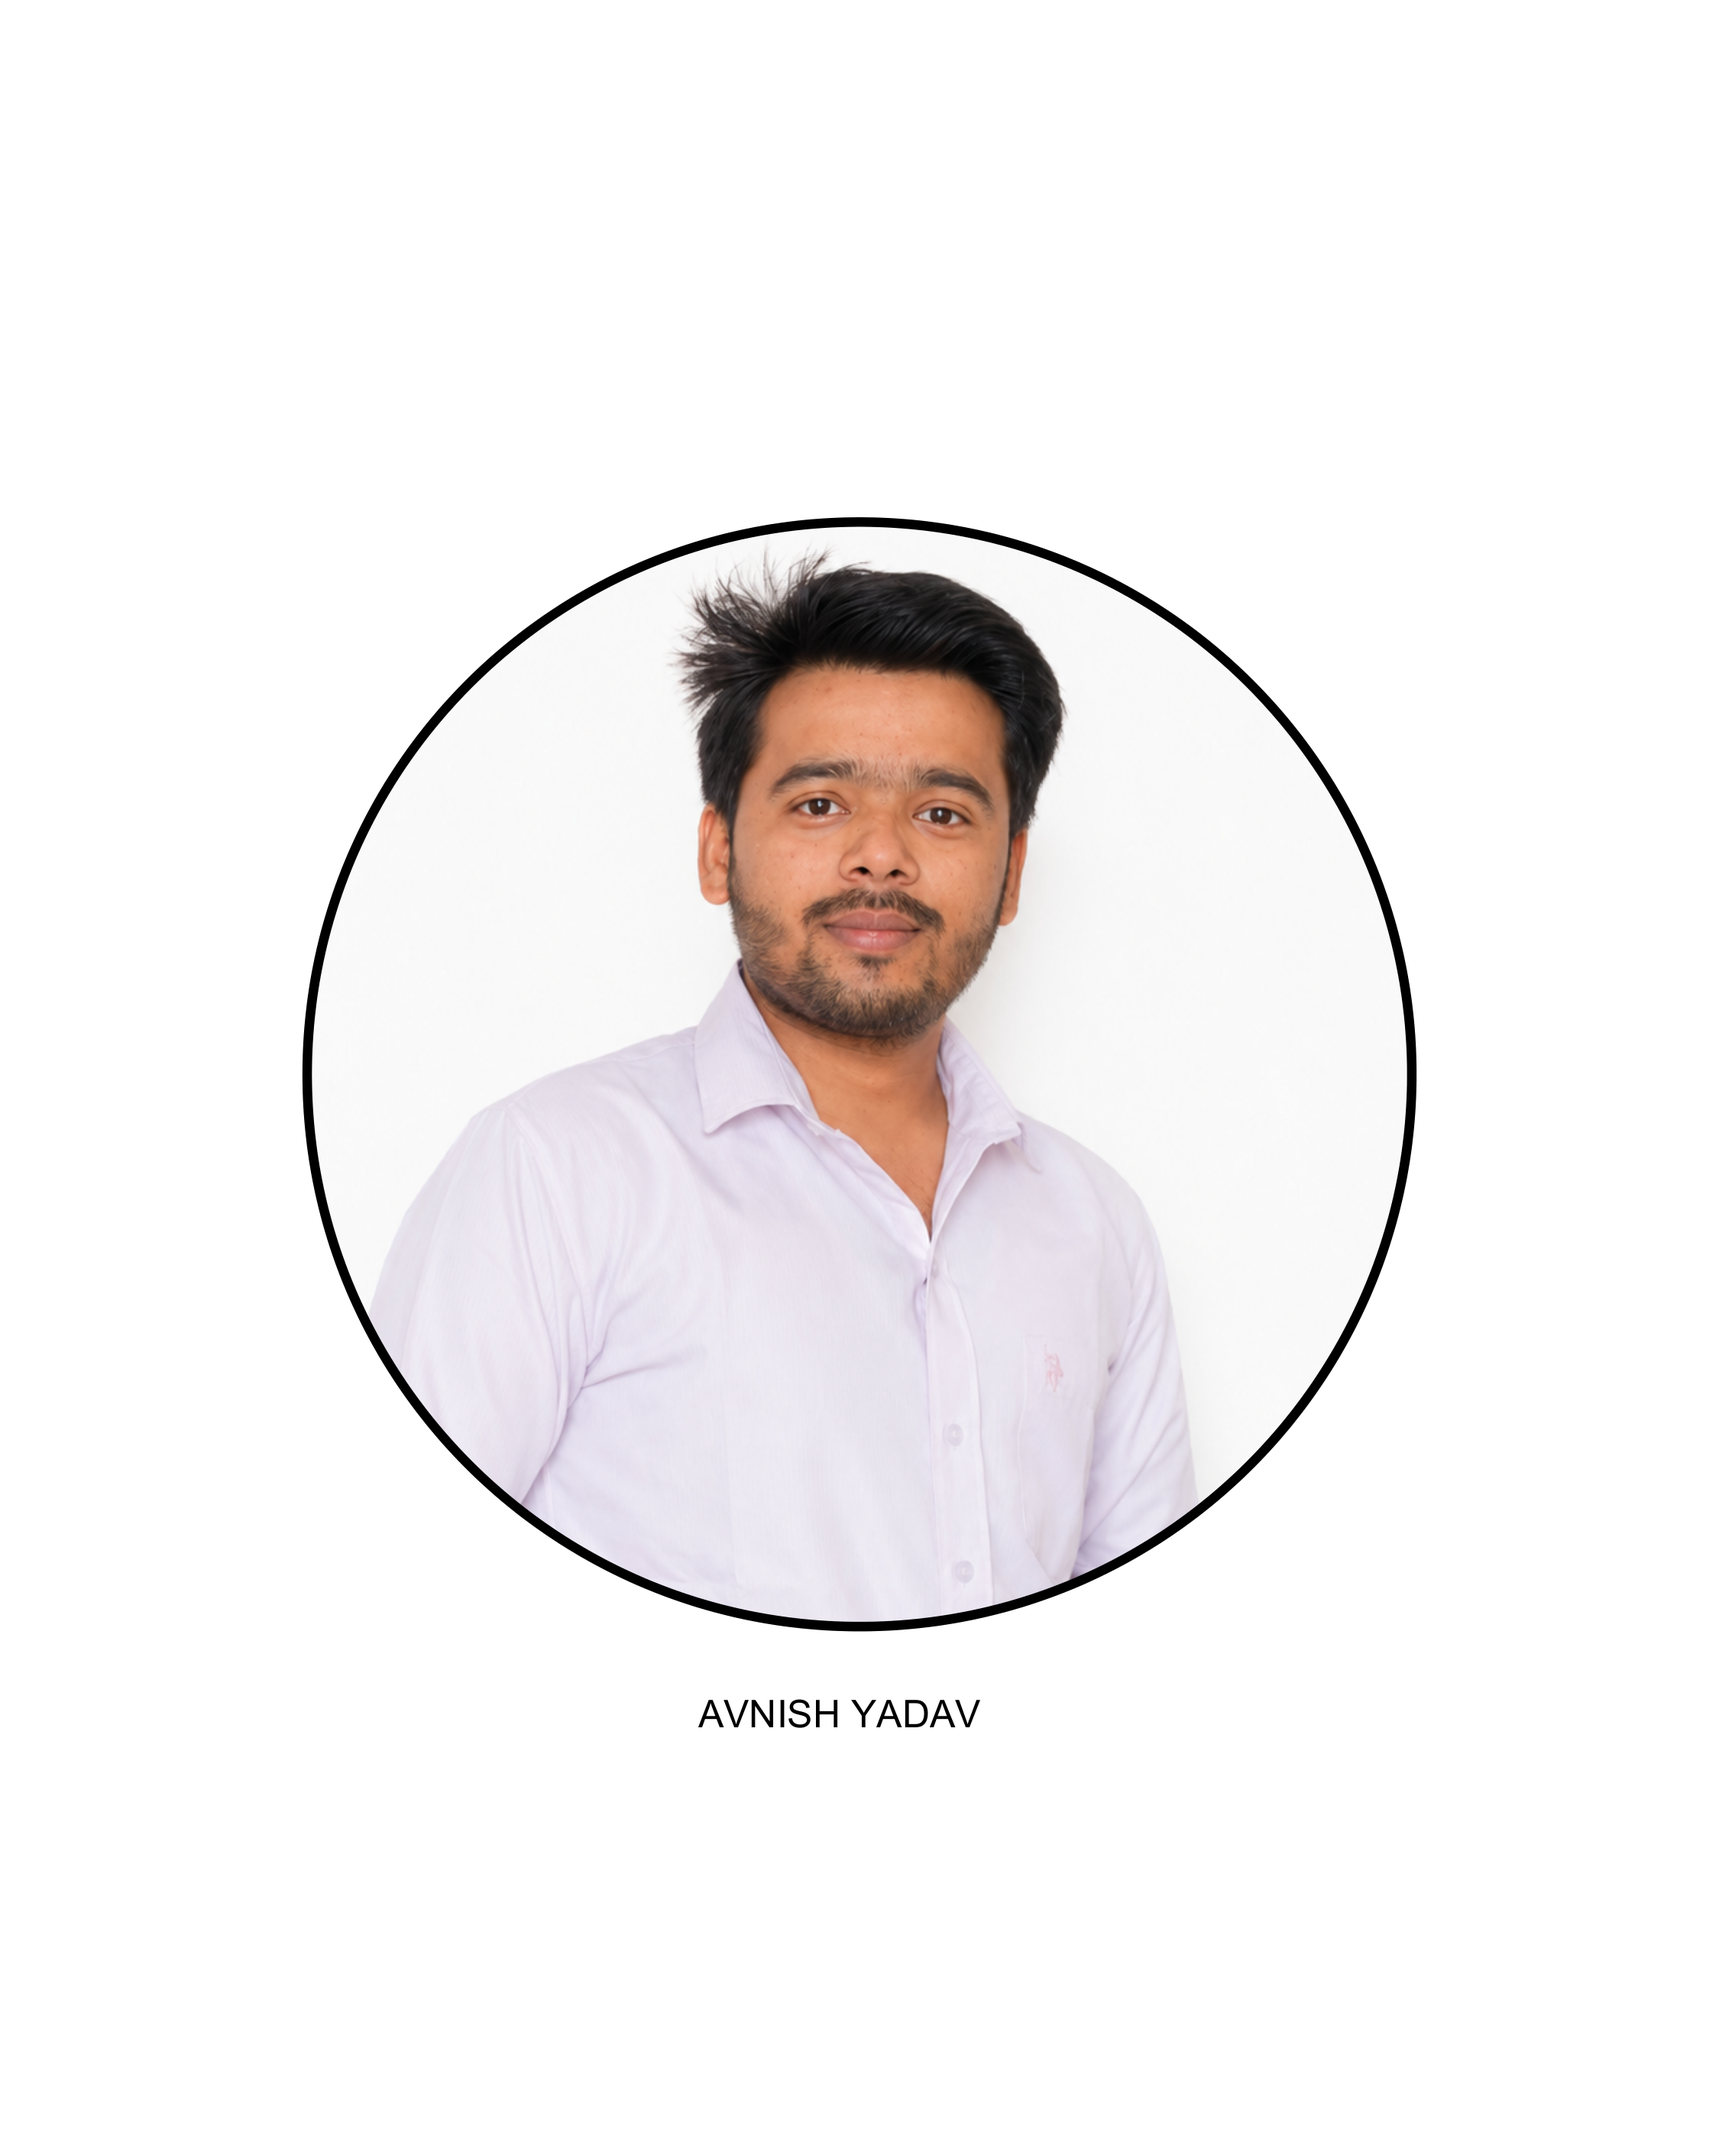
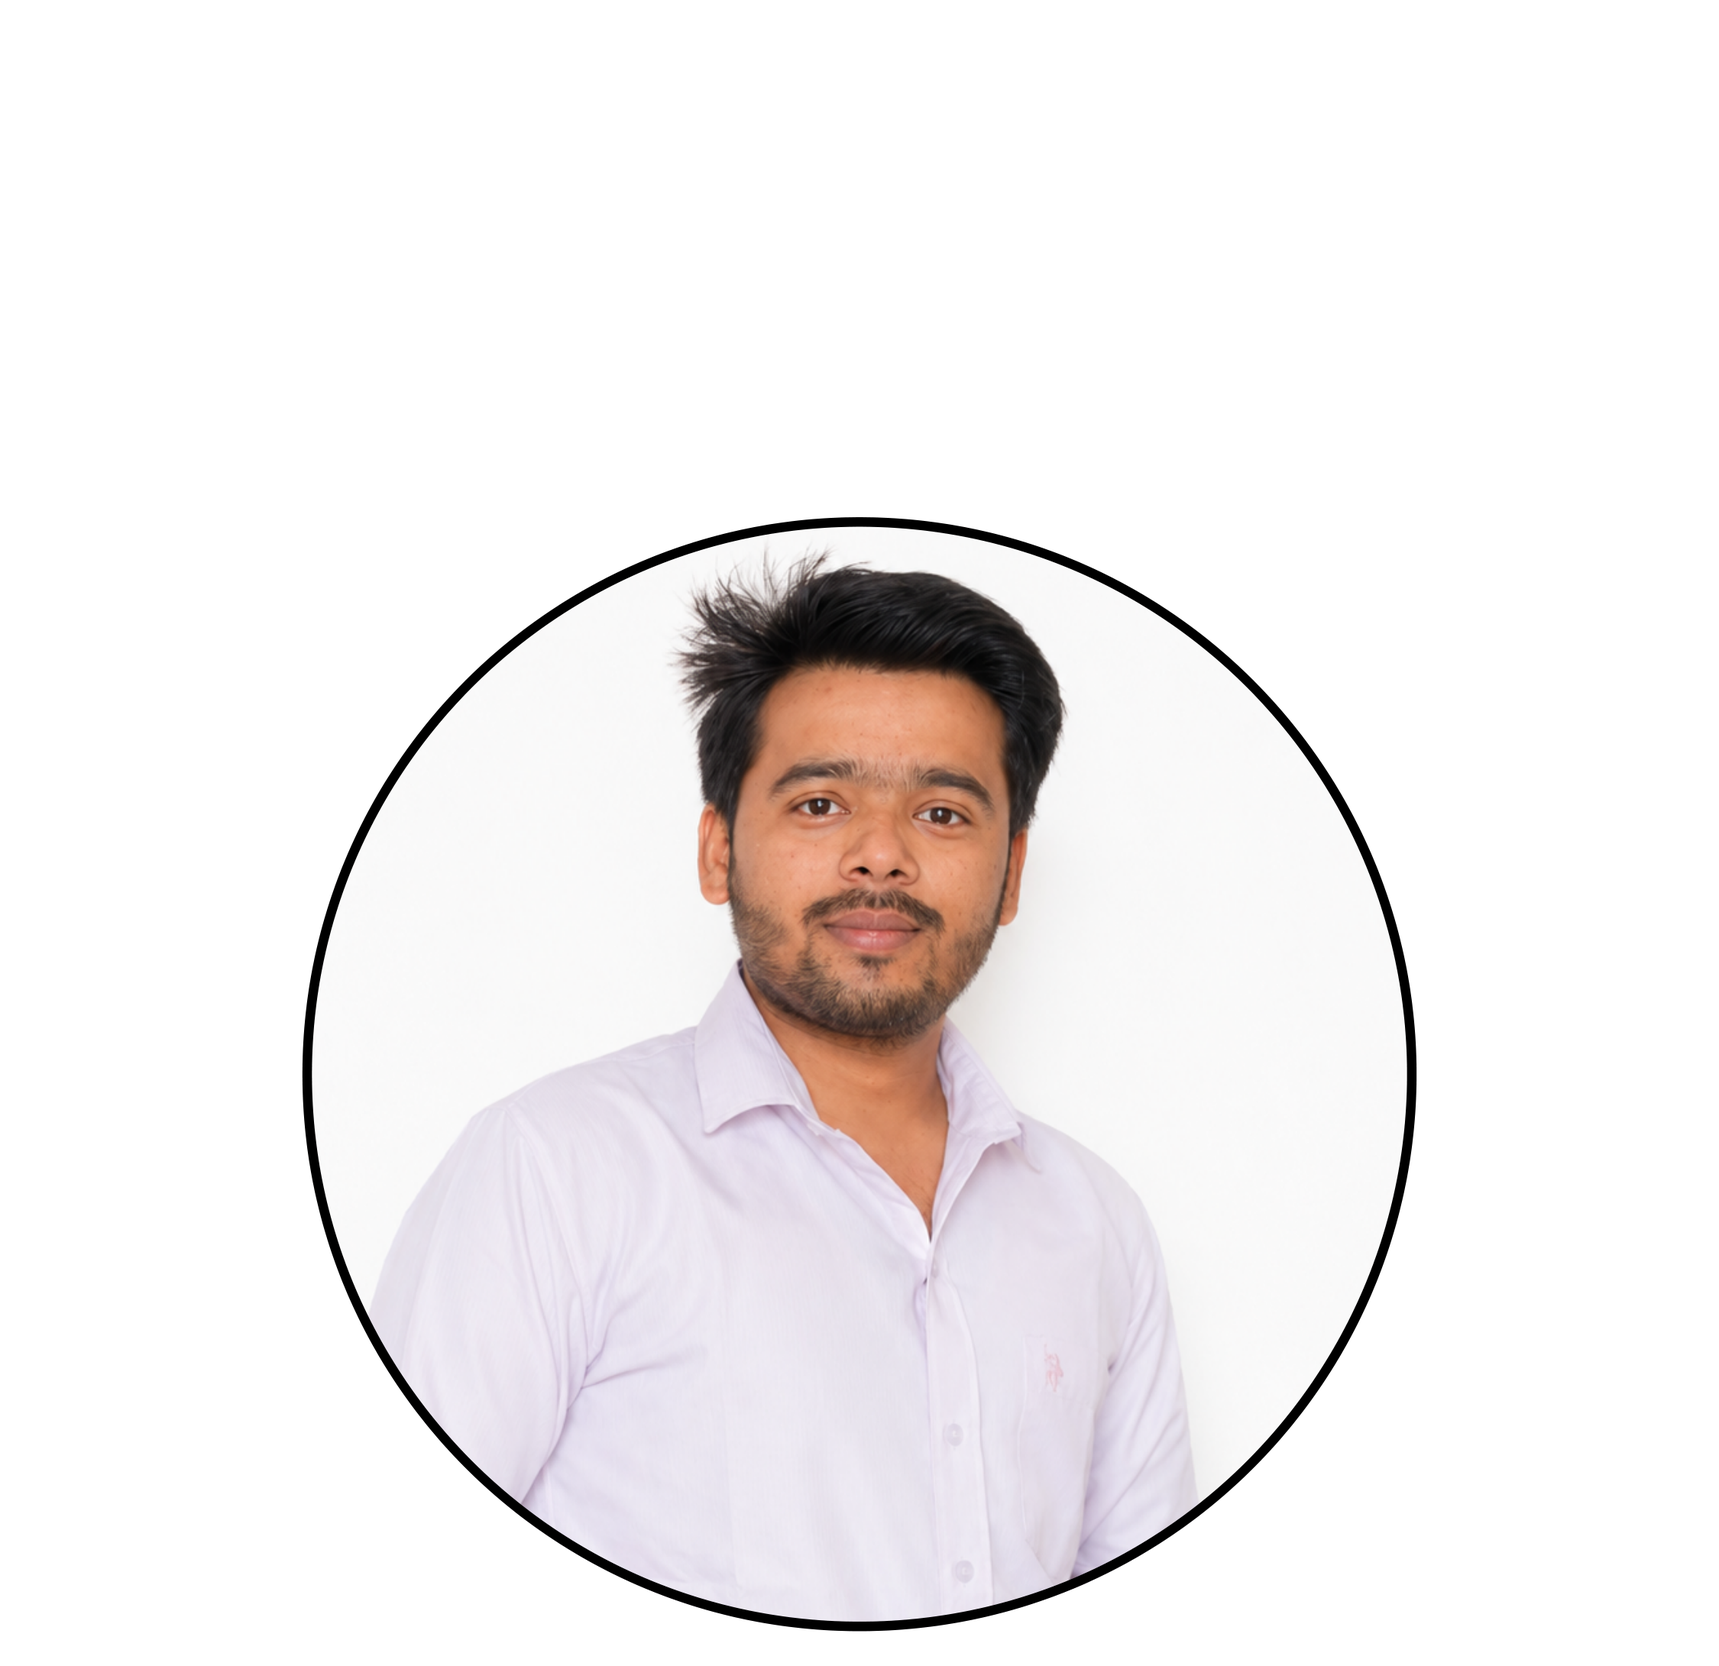
fix: remove follow us section, correct bobby spelling, update team bios, resize images

diff --git a/src/pages/Team.tsx b/src/pages/Team.tsx
@@ -7,15 +7,15 @@ import { getAll } from '@/services/cms'
 import YoutubeEmbed from '@/components/YoutubeEmbed'
 
 const hardcodedTeam = [
-  { name: 'Avnish Yadav', role: 'Founder', bio: 'Visionary founder driving strategy and brand growth.', color: '#60A5FA', image: '/team/page_1.png' },
-  { name: 'Boby Singh', role: 'Co-Founder', bio: 'Co-founder managing operations and client success.', color: '#FF4D4D', image: '/team/page_2.png' },
-  { name: 'Rajnish Yadav', role: 'Content Writer', bio: 'Crafts engaging copy, captions and scripts that convert.', color: '#F59E0B', image: '/team/page_3.png' },
-  { name: 'Ansh', role: 'Business Ads', bio: 'Plans and shoots business ads that drive leads and sales.', color: '#EC4899', image: '/team/page_4.png' },
-  { name: 'Ansh', role: 'Social Media Manager', bio: 'Manages social growth, content calendars and campaigns.', color: '#8B5CF6', image: '/team/ansh_smm.png' },
-  { name: 'Abhay Sharma', role: 'Video Editor', bio: 'Edits reels and long-form videos focused on retention.', color: '#10B981', image: '/team/page_5.png' },
-  { name: 'Subham', role: 'Performance Marketer', bio: 'Runs Meta and Google Ads for maximum ROI.', color: '#EF4444', image: '/team/page_6.png' },
-  { name: 'Deepanshu Singh Adhikari', role: 'Website Developer', bio: 'Builds fast, modern websites that convert visitors.', color: '#4D7AFF', image: '/team/page_7.png' },
-  { name: 'Pooja', role: 'Graphic Designer', bio: 'Designs thumbnails, creatives and premium brand visuals.', color: '#60A5FA', image: '/team/page_8.png' },
+  { name: 'Avnish Yadav', role: 'Founder', bio: 'Visionary founder driving strategy and brand growth today.', color: '#60A5FA', image: '/team/page_1.png' },
+  { name: 'Bobby Singh', role: 'Co-Founder', bio: 'Co-founder managing operations and client success.', color: '#FF4D4D', image: '/team/page_2.png' },
+  { name: 'Rajnish Yadav', role: 'Content Writer', bio: 'Crafts engaging copy captions scripts that convert.', color: '#F59E0B', image: '/team/page_3.png' },
+  { name: 'Ansh', role: 'Business Ads', bio: 'Plans shoots sells business ads online.', color: '#EC4899', image: '/team/page_4.png' },
+  { name: 'Ansh', role: 'Social Media Manager', bio: 'Manages social growth calendars campaigns daily.', color: '#8B5CF6', image: '/team/ansh_smm.png' },
+  { name: 'Abhay Sharma', role: 'Video Editor', bio: 'Edits reels and long form videos focused on retention.', color: '#10B981', image: '/team/page_5.png' },
+  { name: 'Subham', role: 'Performance Marketer', bio: 'Runs Meta Google Ads maximum ROI daily.', color: '#EF4444', image: '/team/page_6.png' },
+  { name: 'Deepanshu Singh Adhikari', role: 'Website Developer', bio: 'Builds fast modern websites that convert visitors daily.', color: '#4D7AFF', image: '/team/page_7.png' },
+  { name: 'Pooja', role: 'Graphic Designer', bio: 'Designs thumbnails creatives premium brand visuals daily.', color: '#60A5FA', image: '/team/page_8.png' },
 ]
 
 const colors = ['#60A5FA', '#FF4D4D', '#4D7AFF', '#8B5CF6', '#10B981', '#F59E0B', '#EC4899', '#EF4444']
@@ -73,14 +73,14 @@ export default function Team() {
             {teamMembers.map((member, i) => (
               <div
                 key={`${member.name}-${member.role}-${i}`}
-                className="rounded-2xl p-8 text-center group border-2 border-[#111111]"
-                style={{ backgroundColor: '#ffffff', color: '#111111', borderColor: '#111111', boxShadow: '4px 4px 0 0 #111111' }}
+                className="rounded-2xl p-8 text-center group"
+                style={{ backgroundColor: '#ffffff', color: '#111111' }}
               >
                 {member.image ? (
                   <img
                     src={member.image}
                     alt={member.name}
-                    className="w-24 h-24 mx-auto rounded-full object-cover mb-5 group-hover:scale-105 transition-transform"
+                    className="w-32 h-32 mx-auto rounded-full object-cover mb-5 group-hover:scale-105 transition-transform"
                   />
                 ) : (
                   <div

diff --git a/src/pages/Contact.tsx b/src/pages/Contact.tsx
@@ -146,7 +146,7 @@ export default function Contact() {
                 <h3 className="text-[#111] text-lg font-bold mb-4">Business Hours</h3>
                 <div className="space-y-3">
                   {[
-                    { day: "Everyday", hours: "9:00 AM - 9:00 PM" },
+                    { day: "Everyday", hours: "9 AM to 9 PM" },
                   ].map((item, i) => (
                     <div key={i} className="flex items-center justify-between py-2 border-b-3 border-[#111] last:border-b-0">
                       <span className="text-[#111]/60">{item.day}</span>
